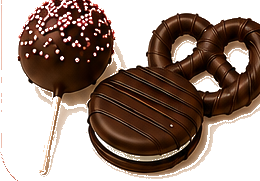
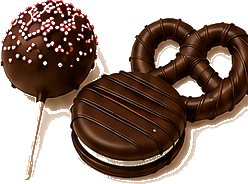
Treat Packages: uncut cluster photos, sized down
The cluster crops were shaving the top off every cake pop and clipping the
pretzel, so the boxes are now roomy and drop_small_blobs() clears the card text
and border dashes that come with the extra margin — anything under ~34px tall
isn't food. Display width goes 208px -> 160px so the photos sit comfortably
inside the cards.

diff --git a/flyers/crop-treats.py b/flyers/crop-treats.py
@@ -99,7 +99,39 @@ def isolate_on_brown(img, box, card=DOZEN_CARD, tol=26, scale=3):
     return tile.resize((w * scale, h * scale), Image.LANCZOS)
 
 
-def lift(img, box, keys, scale=1, strays=None):
+def drop_small_blobs(tile, min_height=34):
+    """Erase leftover opaque specks that are too short to be food.
+
+    Lets the packages-flyer boxes be drawn generously: any line of her card
+    text or border dash caught in the crop is only a few px tall and gets
+    cleared, while the treats — all far taller — survive. Without this, a box
+    roomy enough to not clip the cake pop also swallows the bullet above it.
+    """
+    w, h = tile.size
+    px = tile.load()
+    seen = [[False] * w for _ in range(h)]
+    for sy in range(h):
+        for sx in range(w):
+            if px[sx, sy][3] == 0 or seen[sy][sx]:
+                continue
+            blob, stack = [], [(sx, sy)]
+            seen[sy][sx] = True
+            while stack:
+                x, y = stack.pop()
+                blob.append((x, y))
+                for nx, ny in ((x + 1, y), (x - 1, y), (x, y + 1), (x, y - 1)):
+                    if 0 <= nx < w and 0 <= ny < h and px[nx, ny][3] > 0 and not seen[ny][nx]:
+                        seen[ny][nx] = True
+                        stack.append((nx, ny))
+            top = min(y for _, y in blob)
+            bottom = max(y for _, y in blob)
+            if bottom - top < min_height:
+                for x, y in blob:
+                    px[x, y] = (*px[x, y][:3], 0)
+    return tile
+
+
+def lift(img, box, keys, scale=1, strays=None, despeckle=False):
     """Crop `box`, knock out any colour in `keys`, drop `strays`, trim, scale."""
     tile = img.crop(box).convert('RGBA')
     px = tile.load()
@@ -111,6 +143,8 @@ def lift(img, box, keys, scale=1, strays=None):
                 strays and strays(x, y, w, h)
             ):
                 px[x, y] = (*colour, 0)
+    if despeckle:
+        tile = drop_small_blobs(tile)
     tile = tile.crop(tile.getbbox())
     if scale != 1:
         tile = tile.resize((tile.width * scale, tile.height * scale), Image.LANCZOS)
@@ -151,12 +185,15 @@ def main():
     # This flyer is 1024x1536, so no upscaling needed.
     packages = Image.open(PACKAGES).convert('RGB')
     pkg_keys = [(PKG_CREAM, 30), (PKG_BORDER, 30), ((255, 250, 245), 14)]
+    # Roomy boxes on purpose — despeckle clears the card text and border dashes
+    # that come with the extra margin, and the old tight boxes were shaving the
+    # top off each cake pop.
     for name, box in {
-        'pkg-mini': (38, 1085, 315, 1266),
-        'pkg-standard': (352, 1120, 612, 1284),
-        'pkg-deluxe': (658, 1085, 935, 1266),
+        'pkg-mini': (54, 1062, 324, 1272),
+        'pkg-standard': (378, 1100, 622, 1310),
+        'pkg-deluxe': (690, 1062, 940, 1272),
     }.items():
-        lift(packages, box, pkg_keys).save(OUT / f'{name}.png')
+        lift(packages, box, pkg_keys, despeckle=True).save(OUT / f'{name}.png')
 
     # ── Treat Packages: her three "basic decor" illustrations ─────────────
     # Boxes stop short of the strip's own border rule (y=1398) and, for the
